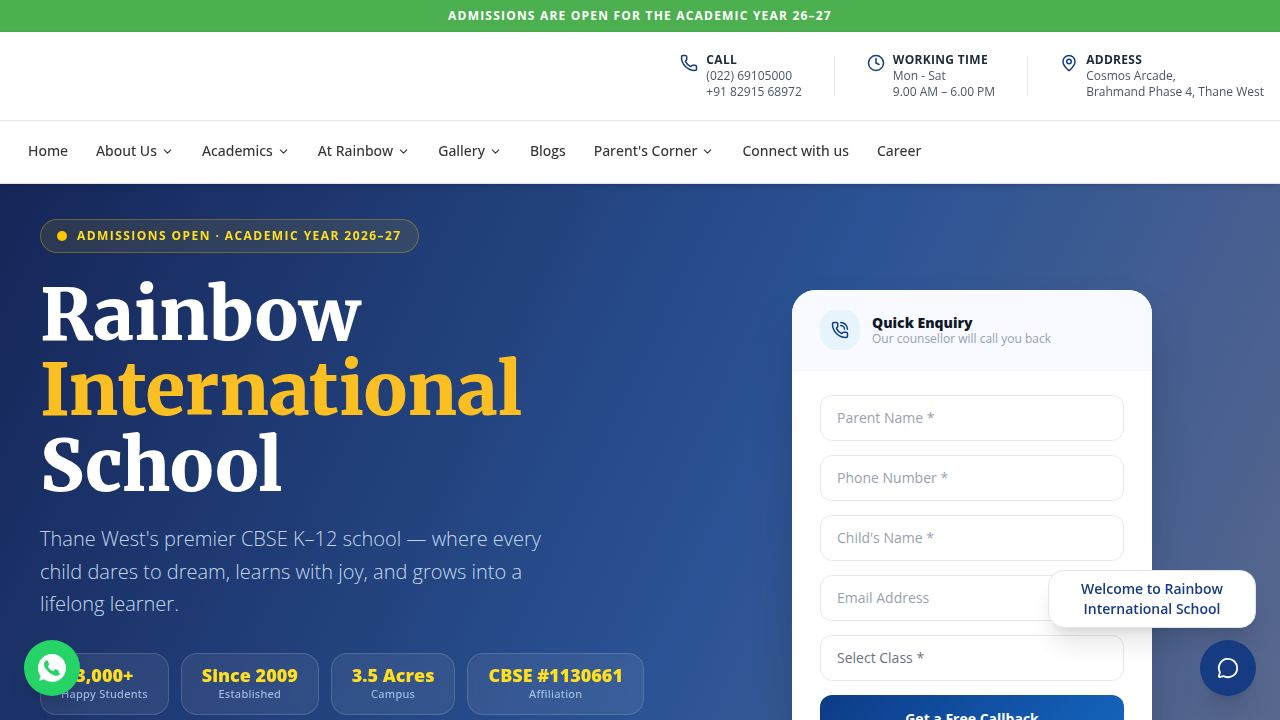
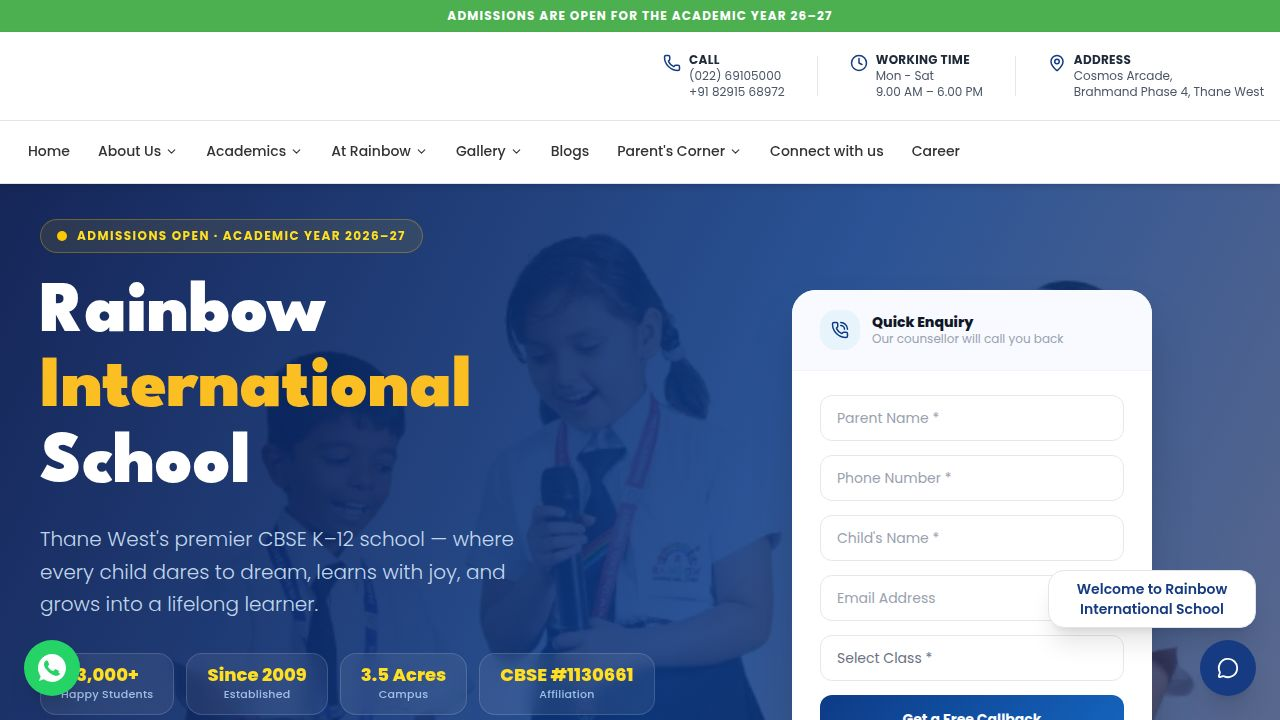
Apply new fonts and fix heading color issues across the site
Update Google Fonts to League Spartan and Poppins, adjust global CSS for headings, and fix text color in PageBanner component.

Replit-Commit-Author: Agent
Replit-Commit-Session-Id: 626ee0ab-79e0-4594-8c37-24950af4fe74
Replit-Commit-Checkpoint-Type: full_checkpoint
Replit-Commit-Event-Id: 28a79e35-84fa-41de-b00e-3aee0bec639a
Replit-Commit-Screenshot-Url: https://storage.googleapis.com/screenshot-production-us-central1/3a7e2007-87f6-4891-a5f8-6a34c6a824f7/626ee0ab-79e0-4594-8c37-24950af4fe74/9Vu27Z7
Replit-Helium-Checkpoint-Created: true

diff --git a/client/index.html b/client/index.html
@@ -21,7 +21,7 @@
     <link rel="icon" type="image/png" href="/favicon.png" />
     <link rel="preconnect" href="https://fonts.googleapis.com">
     <link rel="preconnect" href="https://fonts.gstatic.com" crossorigin>
-    <link href="https://fonts.googleapis.com/css2?family=Merriweather:ital,wght@0,300;0,400;0,700;0,900;1,300;1,400;1,700;1,900&family=Open+Sans:ital,wght@0,300..800;1,300..800&display=swap" rel="stylesheet">
+    <link href="https://fonts.googleapis.com/css2?family=League+Spartan:wght@400;500;600;700;800;900&family=Poppins:ital,wght@0,300;0,400;0,500;0,600;0,700;0,800;1,300;1,400;1,500;1,600&display=swap" rel="stylesheet">
   </head>
   <body>
     <div id="root"></div>

diff --git a/client/src/components/layout/PageBanner.tsx b/client/src/components/layout/PageBanner.tsx
@@ -35,8 +35,8 @@ export function PageBanner({ title, subtitle, breadcrumb, bgImage }: PageBannerP
             ))}
           </nav>
         )}
-        <h1 className="text-4xl md:text-5xl font-serif font-bold mb-3">{title}</h1>
-        {subtitle && <p className="text-xl text-white/80 max-w-2xl">{subtitle}</p>}
+        <h1 className="text-4xl md:text-5xl font-serif font-black mb-3 text-white">{title}</h1>
+        {subtitle && <p className="text-xl text-white/80 max-w-2xl font-sans font-normal">{subtitle}</p>}
       </div>
     </div>
   );

diff --git a/client/src/index.css b/client/src/index.css
@@ -45,8 +45,8 @@
   --color-chart-4: hsl(var(--chart-4));
   --color-chart-5: hsl(var(--chart-5));
 
-  --font-sans: "Open Sans", system-ui, sans-serif;
-  --font-serif: "Merriweather", serif;
+  --font-sans: "Poppins", system-ui, sans-serif;
+  --font-serif: "League Spartan", system-ui, sans-serif;
 
   --radius: 0.5rem;
 }
@@ -127,6 +127,6 @@
     @apply font-sans antialiased bg-background text-foreground;
   }
   h1, h2, h3, h4, h5, h6 {
-    @apply font-serif font-bold text-primary;
+    @apply font-serif font-bold;
   }
 }
